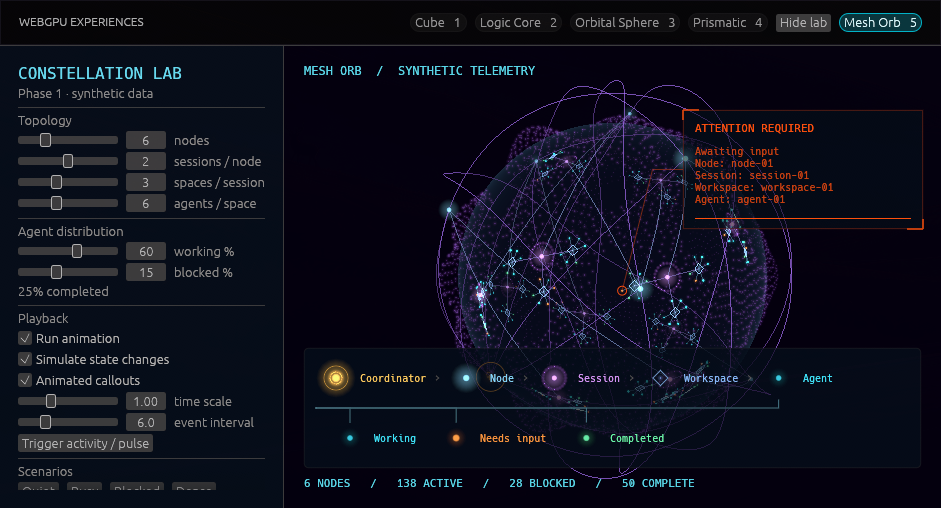
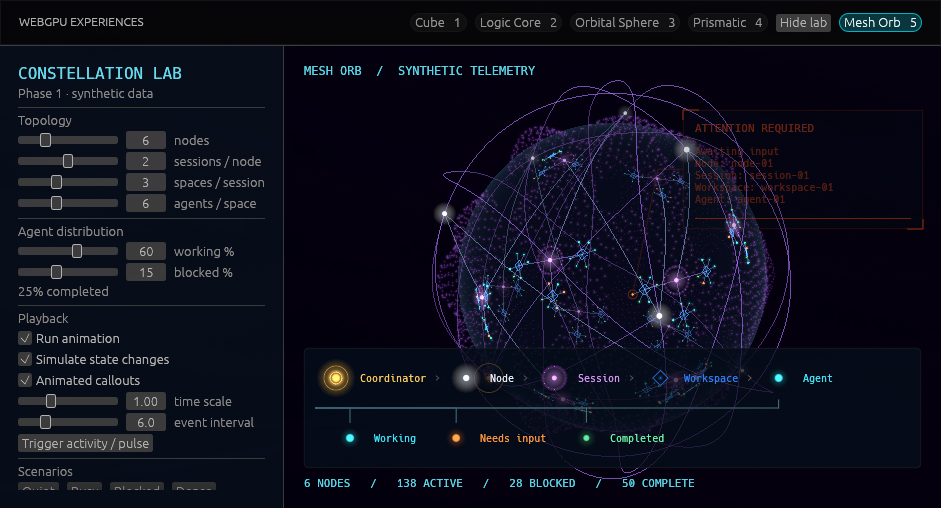
Separate node and workspace colors from agent states

diff --git a/src/mesh_orb.rs b/src/mesh_orb.rs
@@ -25,9 +25,9 @@ impl Glyph {
     pub fn color(self) -> [f32; 3] {
         match self {
             Self::Coordinator => [1.0, 0.62, 0.12],
-            Self::Node => [0.25, 0.7, 1.0],
+            Self::Node => [0.85, 0.92, 1.0],
             Self::Session => [0.7, 0.32, 1.0],
-            Self::Workspace => [0.25, 0.5, 1.0],
+            Self::Workspace => [0.025, 0.22, 1.0],
             Self::Agent(state) => state.color(),
         }
     }
@@ -173,7 +173,7 @@ impl Geometry {
                 for i in 0..4 {
                     self.line(diamond[i], diamond[(i + 1) % 4], glyph.color(), alpha * 0.8);
                 }
-                self.dot(p, 1.3, [0.22, 0.35, 0.9], alpha * 0.6);
+                self.dot(p, 1.3, glyph.color(), alpha * 0.6);
             }
             Glyph::Agent(state) => {
                 let breathing = match state {

diff --git a/docs/orb-mesh-phase1.md b/docs/orb-mesh-phase1.md
@@ -29,14 +29,14 @@ to cover Windows, macOS and Linux. There is no browser or external renderer.
 ## First-cut visual grammar
 
 - One gold coordinator, distinguished by its small orbiting crown.
-- Ice-blue nodes moving on six fine 3D lattice orbits. Stable seeded locations
+- Pearl-white nodes moving on six fine 3D lattice orbits. Stable seeded locations
   avoid reshuffling existing objects as counts change; no real identities appear.
 - Violet session hubs on the inner particle globe, with concentric dot halos.
   Nodes own stable surface territories selected progressively from equal-area
   Fibonacci candidates, filling the largest remaining angular gaps. Clusters
   rotate with the globe independently of satellite orbits; adding/removing nodes
   preserves existing territories and scoped entity placement.
-- Indigo diamond workspace hubs arranged around each session, with full rings
+- Royal-blue diamond workspace hubs arranged around each session, with full rings
   of agent dots around them. Successive child slots fill opposite sides and gaps
   around the full circle, so small counts occupy the available area while earlier
   positions stay fixed. Wider spacing separates sessions, workspaces and leaves;
@@ -54,7 +54,7 @@ to cover Windows, macOS and Linux. There is no browser or external renderer.
   Depth changes preserve status hues and feather across the middle of the globe.
   The original Orbital Sphere retains its original glow and pixel-size behavior.
 - An enlarged visual key uses the sphere's own glyph geometry and linear colors:
-  gold core with dotted crown and root ring, glowing ice-blue node, violet
+  gold core with dotted crown and root ring, glowing pearl-white node, violet
   session core with dotted halo, hollow workspace diamond with faint center,
   and compact agent glows. Working/needs-input samples share the scene's fast/slow
   breathing; completed stays steady. Samples face forward for recognition, with
@@ -63,7 +63,7 @@ to cover Windows, macOS and Linux. There is no browser or external renderer.
   hidden. Hierarchy and agent states occupy separate rows that wrap on narrow
   windows. Hierarchy order is Coordinator → Node → Session → Workspace → Agent,
   with a bracket from Agent to Working / Needs input / Completed. Nodes are the
-  orbiting ice-blue satellites; agents are the smaller state-colored dots around
+  orbiting pearl-white satellites; agents are the smaller state-colored dots around
   each workspace diamond. Event cards leave room for the key and footer; very short viewports
   suppress cards when there is insufficient room.
 - Event callouts track a projected 3D anchor with elbow leaders, corner
@@ -210,3 +210,16 @@ New checks verify the complete event identity, retention across topology changes
 and placement of variable-height cards in wide/narrow windows. Native rendering
 and the refreshed capture were inspected; Windows/macOS native acceptance remains
 open.
+
+
+## Role color separation (2026-10-06)
+
+Nodes use pearl white and workspace outlines/centers use saturated royal blue,
+separating them from cyan working agents. Coordinator gold, session violet, and
+agent cyan/amber/green remain unchanged. The scene, key and lab share the same
+semantic palette, so previews and labels follow the new colors together. Shape,
+size, halo and state-breathing distinctions remain in place.
+
+Seventeen tests, formatting, strict clippy and the optimized Linux build passed;
+colors were inspected in the native view and the capture refreshed. Native
+Windows/macOS graphical acceptance remains open.
